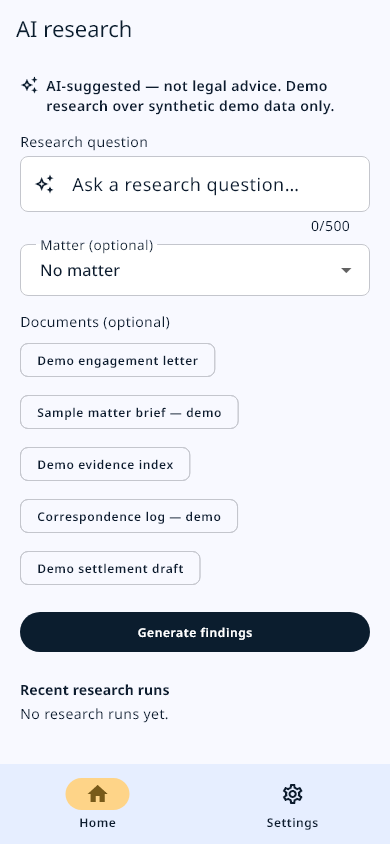
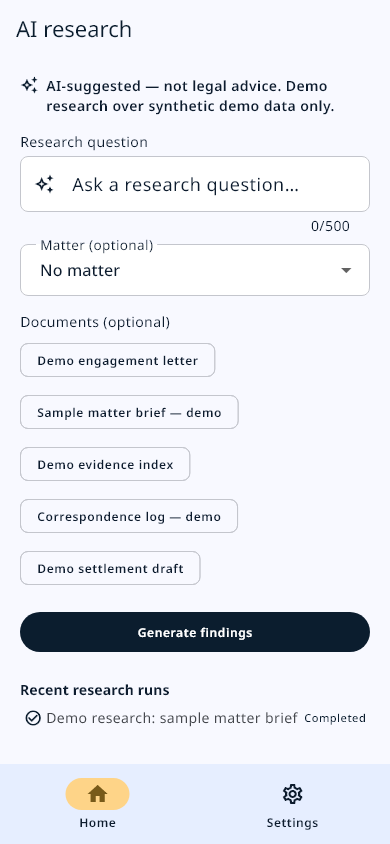
test(screenshots): seed a synthetic completed research run for the capture
F-T8-02: RED test at c8303bd failed with 0 completed-run widgets. The capture-only fixture delegates AiGateway and overrides fetchRuns with one clearly synthetic completed run; no production model, RPC, RLS or runtime path changed. Regenerated 05_research.png only (it now shows 'Demo research: sample matter brief / Completed'). Re-pinned 2398 declarations / 2425 runtime.

Changed region(s): [[0.0615, 0.8318, 0.6462, 0.8626], [0.8, 0.8318, 0.9231, 0.8626], [0.6769, 0.8318, 0.7692, 0.8626]]

diff --git a/test/support/screenshot_research_fixture.dart b/test/support/screenshot_research_fixture.dart
@@ -1,9 +1,55 @@
+import 'package:legalhub/app/service_locator.dart';
+import 'package:legalhub/core/errors/result.dart';
+import 'package:legalhub/features/research/domain/ai_finding.dart';
+import 'package:legalhub/features/research/domain/ai_gateway.dart';
+import 'package:legalhub/features/research/domain/research_outcome.dart';
+import 'package:legalhub/features/research/domain/research_request.dart';
+import 'package:legalhub/features/research/domain/research_run.dart';
+import 'package:legalhub/features/research/domain/research_wire_codes.dart';
+
 /// Screenshot-only research fixture seam.
 ///
-/// The portfolio research screenshot must show a populated, clearly synthetic
-/// run history. This helper is called ONLY by screenshot capture/tests; it must
-/// never be reachable from the app's normal runtime path.
-///
-/// RED state: the seam exists but seeds nothing, so the capture test fails on
-/// the "no runs yet" empty state. The fix commit implements it.
-Future<void> seedScreenshotResearchFixture() async {}
+/// Called ONLY by the screenshot capture test and its RED regression test. It
+/// replaces the credential-free [AiGateway] in the service locator with a
+/// delegating wrapper whose run history contains one clearly synthetic,
+/// completed run. No production model, RPC, RLS policy or runtime path changes.
+Future<void> seedScreenshotResearchFixture() async {
+  final AiGateway delegate = serviceLocator<AiGateway>();
+  await serviceLocator.unregister<AiGateway>();
+  serviceLocator.registerSingleton<AiGateway>(
+    _ScreenshotResearchGateway(delegate),
+  );
+}
+
+class _ScreenshotResearchGateway implements AiGateway {
+  const _ScreenshotResearchGateway(this._delegate);
+
+  final AiGateway _delegate;
+
+  static final ResearchRun _demoRun = ResearchRun(
+    id: '00000000-0000-4000-8000-0000000000f1',
+    organizationId: '00000000-0000-4000-8000-0000000000d1',
+    status: ResearchRunStatus.completed,
+    promptSummary: 'Demo research: sample matter brief',
+    model: 'synthetic-demo',
+    createdAt: DateTime.utc(2026, 11, 17, 12),
+    completedAt: DateTime.utc(2026, 11, 17, 12, 0, 2),
+  );
+
+  @override
+  Future<Result<List<AiFinding>>> research(String query) =>
+      _delegate.research(query);
+
+  @override
+  Future<Result<ResearchOutcome>> analyze(ResearchRequest request) =>
+      _delegate.analyze(request);
+
+  @override
+  Future<Result<List<ResearchRun>>> fetchRuns({
+    int limit = kResearchRunPageSize,
+  }) async => Result<List<ResearchRun>>.success(<ResearchRun>[_demoRun]);
+
+  @override
+  Future<Result<List<AiFinding>>> fetchFindings(String runId) =>
+      _delegate.fetchFindings(runId);
+}

diff --git a/test/screenshots/capture_screenshots_test.dart b/test/screenshots/capture_screenshots_test.dart
@@ -19,6 +19,7 @@ import 'package:legalhub/features/library/domain/library_user_data_gateway.dart'
 import 'package:legalhub/main.dart';
 
 import '../support/render_fonts.dart';
+import '../support/screenshot_research_fixture.dart';
 
 /// Deterministic portfolio screenshots from the REAL app, the fake gateways
 /// and the bundled fonts — no emulator, no credentials, no device frame.
@@ -133,6 +134,9 @@ void main() {
     await capture('03_discovery');
     await open('/messages/thread-1');
     await capture('04_messages');
+    // Screenshot-only fixture: a clearly synthetic completed run so the
+    // portfolio image shows a populated history, never "no runs yet".
+    await seedScreenshotResearchFixture();
     await open(AppRoutes.research);
     await capture('05_research');
     await open(AppRoutes.settings);

diff --git a/docs/DEEP_DIVE.md b/docs/DEEP_DIVE.md
@@ -121,7 +121,7 @@ recorded prerequisites are approved — see
   Wired into presentation via `SignUpCubit`/`SignUpGateway`; the redaction
   invariant is pinned by a failure-path `blocTest` in
   `test/features/auth/sign_up_cubit_test.dart`.
-- Tests (2397 total) — full suite green 2026-11-17 (2424 at runtime; 13 capture/golden-only tests skipped by default): Result, AppError, UseCase, ViewState, AuthCubit (demo
+- Tests (2398 total) — full suite green 2026-11-17 (2425 at runtime; 13 capture/golden-only tests skipped by default): Result, AppError, UseCase, ViewState, AuthCubit (demo
   session + gateway-failure error path), LocaleCubit (locale persistence +
   unsupported-code rejection), ThemeCubit (mode persistence + restart
   restore), Redactor (password/OTP/email/Bearer redaction with leak guards),
@@ -474,8 +474,8 @@ HTTP layer and lock the exact postgrest await shape the app depends on —
 (2: `from().select()` plain + chained `.eq()` → raw row list). A future
 postgrest upgrade that changes the await contract fails loudly in CI, not on
 a device (the on-device create-org crash this class caused is recorded in
-`docs/current_applied_surface_2026-08-08.md` §1d). Current suite: **2397 tests**
-(2397 tracked declarations, 2424 at runtime; 13 capture/golden-only tests
+`docs/current_applied_surface_2026-08-08.md` §1d). Current suite: **2398 tests**
+(2398 tracked declarations, 2425 at runtime; 13 capture/golden-only tests
 skipped by default; ledger `verify_ledger.sh` PASS).
 
 ## Fonts and licenses

diff --git a/README.md b/README.md
@@ -33,7 +33,7 @@ All 15 images are generated from the demo build by `CAPTURE_SCREENSHOTS=1 flutte
 - **Three languages, RTL throughout.** English, Arabic and Turkish; 986 l10n keys per locale with an enforced parity gate.
 - **Phone to tablet.** One breakpoint contract for the navigation rail, two-pane master/detail and RTL-aware spacing.
 - **Accessibility gates.** Tap-target/label guidelines on 12 surfaces; 14 theme token pairs pinned at 4.5:1. See [`docs/accessibility_statement.md`](docs/accessibility_statement.md).
-- **Measured verification.** 2,397 tracked test declarations (2,424 run, 13 skipped), 83.76% line coverage (lcov aggregate LH=17,238 / LF=20,581), 45 screens, 32 migrations, 11 ADRs — all gates run in CI.
+- **Measured verification.** 2,398 tracked test declarations (2,425 run, 13 skipped), 83.76% line coverage (lcov aggregate LH=17,238 / LF=20,581), 45 screens, 32 migrations, 11 ADRs — all gates run in CI.
 
 ## Architecture
 

diff --git a/docs/media/README.md b/docs/media/README.md
@@ -31,7 +31,7 @@ comparator purely as a deterministic byte writer; never hand-edit the PNGs.
 | `02_matters.png` | Matters list | English / light |
 | `03_discovery.png` | Attorney directory | English / light |
 | `04_messages.png` | Message thread detail | English / light |
-| `05_research.png` | AI research (with the not-legal-advice banner) | English / light |
+| `05_research.png` | AI research (not-legal-advice banner + one clearly synthetic completed demo run) | English / light |
 | `06_settings.png` | Settings | English / light |
 | `07_library.png` | Library index with category chips | English / light |
 | `08_article_reader.png` | Article with a visible highlight and sample badge | English / light |
